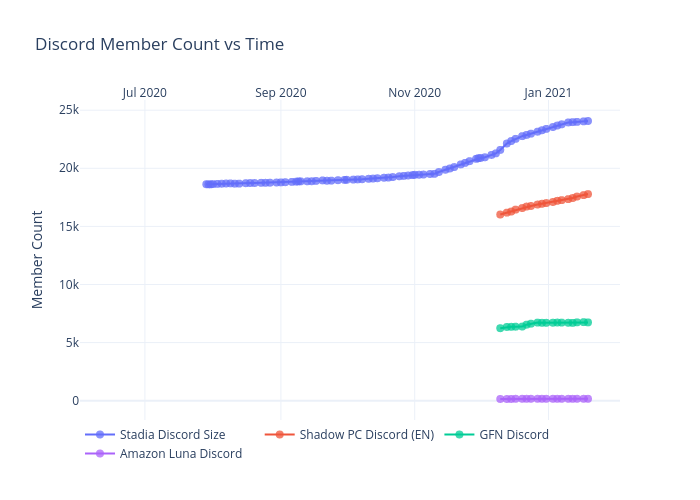
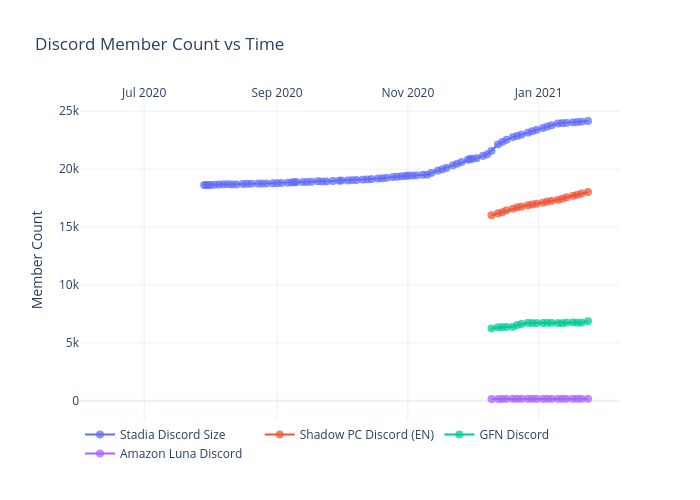
Add files via upload

diff --git a/discord/figure.js b/discord/figure.js
@@ -189,7 +189,8 @@ var figure = {
                 "23993",
                 "24040",
                 "24070",
-                "24095"
+                "24095",
+                "24155"
             ],
             "marker": {
                 "size": 8,
@@ -387,7 +388,8 @@ var figure = {
                 "17567",
                 "17691",
                 "17779",
-                "17897"
+                "17897",
+                "18023"
             ],
             "marker": {
                 "size": 8,
@@ -585,7 +587,8 @@ var figure = {
                 "6743",
                 "6761",
                 "6738",
-                "6743"
+                "6743",
+                "6870"
             ],
             "marker": {
                 "size": 8,
@@ -783,6 +786,7 @@ var figure = {
                 "164",
                 "165",
                 "163",
+                "163",
                 "163"
             ],
             "marker": {
@@ -801,8 +805,8 @@ var figure = {
             "side": "top",
             "type": "date",
             "range": [
-                "2020-06-02 11:01:27.4082",
-                "2021-02-03 12:58:32.5918"
+                "2020-06-02 06:34:21.2084",
+                "2021-02-06 17:25:38.7916"
             ],
             "title": {
                 "text": ""
@@ -812,8 +816,8 @@ var figure = {
         "yaxis": {
             "type": "linear",
             "range": [
-                -1567.5981860063348,
-                25808.598186006333
+                -1571.8913043478265,
+                25872.891304347828
             ],
             "title": {
                 "text": "Member Count"
